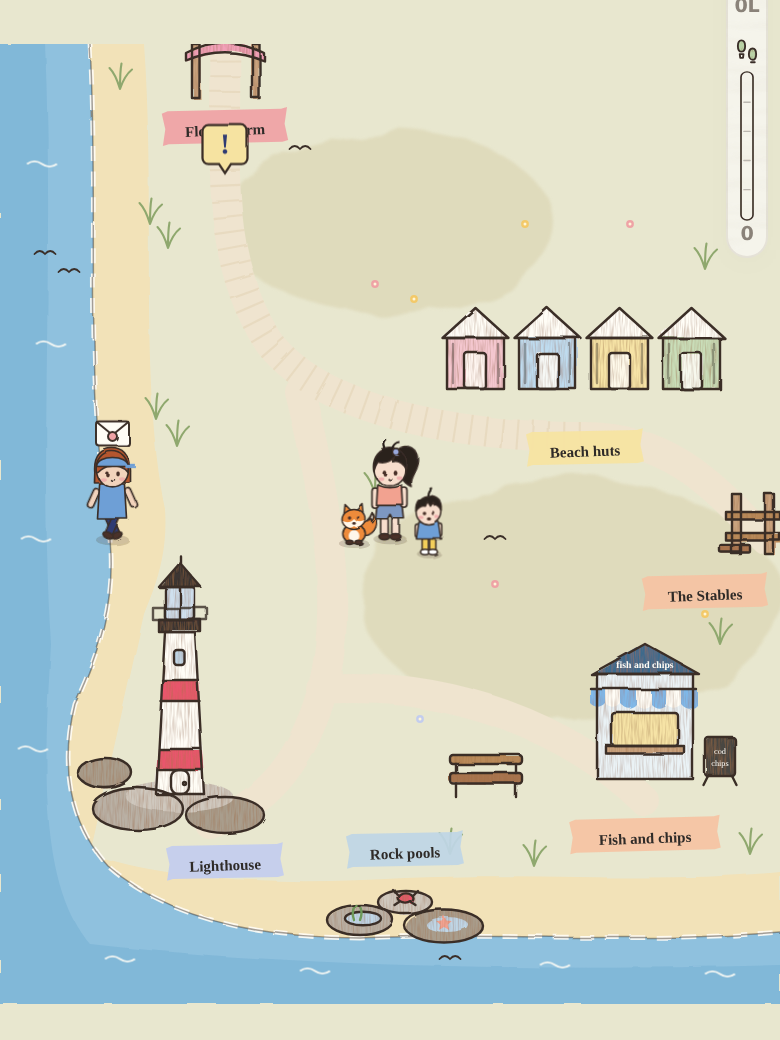
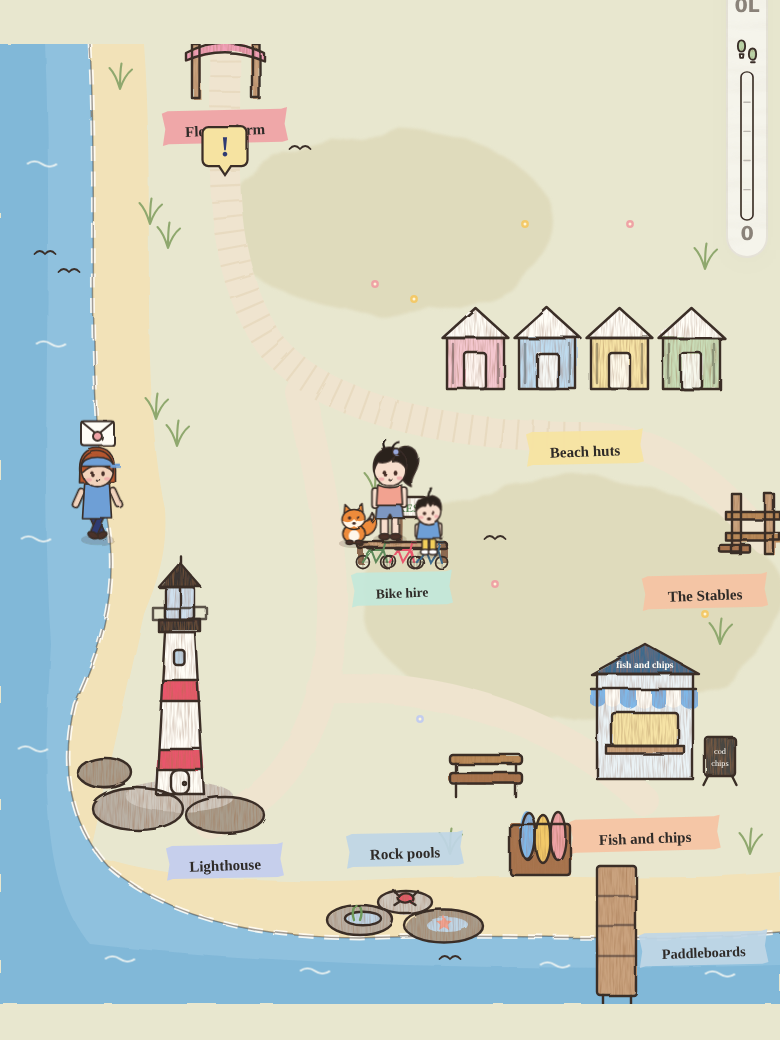
Bike hire on the green and at Lighthouse Point; a paddleboard jetty at the lighthouse
Claude-Session: https://claude.ai/code/session_017gYbhpw6TbdTF5ufLgYzyp

diff --git a/maple-village/src/game/core.js b/maple-village/src/game/core.js
@@ -3408,7 +3408,7 @@ function arriveVillageSpot(id){
   if (id === "timetable" && scene === "hlane") { railOpen = true; sfx("paper", true); render(); return; }
   if (SOUTH_SPOTS.includes(id)) { southSpot(id); return; }
   if (id === "ranger") { woodsView = "ranger"; sfx("paper", true); if (isHere("wren")) npcSay("wren", pick(["Morning! Mind the roots on the top trail.", "Kettle's on. Have you been to the lookout yet?", "The pool's full of trout this week."])); render(); return; }
-  if (id === "bikeswoods" || id === "bikesst" || id === "bikesvillage") { woodsView = "bike"; sfx("paper", true); render(); return; }
+  if (id === "bikeswoods" || id === "bikesst" || id === "bikesvillage" || id === "bikesgreen" || id === "bikeslight") { woodsView = "bike"; sfx("paper", true); render(); return; }
   if (TAXI_STOPS[id]) { woodsView = id; sfx("paper", true); render(); return; }
   if (id === "forage") { const r = forage(F, addInv); if (!r) { speak("You've foraged here today. Come back tomorrow: the woods need time to grow back.", 4000); render(); return; }
     sfx("chime"); gainXp(1); act("cheer"); speak(`${r.line} +${r.n} ${ITEMS[r.id].n.toLowerCase()} in your backpack.`, 5500); mprop("sparkle", mel.x, mel.y - 60, 1600); if (evanHere()) setTimeout(() => evanSays(pick(["I found one!", "In the basket!", "Can I eat it?"])), 1200); save(); render(); return; }
@@ -3444,7 +3444,7 @@ function arriveVillageSpot(id){
   if (id === "jazzhat") { tipBand(); return; }
   if (id === "xgrotto") { fieldView = "xgrotto"; sfx("paper", true); if (evanHere()) evanSays(pick(["Santa?!", "is he IN there?", "Mama, hold my hand"])); render(); return; }
   if (id === "xtree") { fieldView = "xtree"; sfx("paper", true); if (treeLit(dayKey(), sgHM(), F)) mprop("heart", mel.x, mel.y - 60, 1600); render(); return; }
-  if (id === "suprack" || id === "homejetty") { goalView = "jetty"; sfx("paper", true); render(); return; }
+  if (id === "suprack" || id === "homejetty" || id === "lsup") { goalView = "jetty"; sfx("paper", true); render(); return; }
   if (id === "ferry") { railOpen = "ferry"; tripPick = []; sfx("paper", true); render(); return; }   // round 127: the Jeju ferry's ticket board
   if (id === "wishtower") { const w = F.wish = F.wish || {n: 3}; if (w.day === dayKey()) { speak("You've added your stone today. The wish is in there now: it just needs time.", 4000); render(); return; }
     w.day = dayKey(); if (w.n < 9) w.n++; sfx("chime"); gainXp(1); speak(pick(["You find a flat black-ish pebble by the river, balance it on top, and make a wish. Don't tell anyone what it was.", "Clack. One more stone on the tower. A wish for today.", "Very carefully... there. The tower's a little taller, and so is the wish."]), 5000);
@@ -4051,19 +4051,19 @@ function familyPaddle(){
 }
 // Paddling between the home jetty and the foreshore: the river, the lake and the stream join them. Board on, a blink,
 // and Mel steps off by the other jetty (Evan and Maple too)
-const JETTY = {shore: [216, 500], base: [150, 134]};
+const JETTY = {shore: [216, 500], base: [150, 134], lighthouse: [400, 552]};
 function paddleTo(dest){
   if (paddling || sup) return;
   const m = sgHM(); if (m >= 22*60 || m < 6*60) { speak("Too dark to paddle the river now. Walk tonight, paddle in the morning.", 3500); render(); return; }
-  const kid = evanHere(), off = scene === "shore" ? [[104, 372], [132, 404]] : [[124, 84], [96, 88]]; paddling = true; route = []; atSpot = null; mel.path = []; mel.sitting = false;
+  const kid = evanHere(), off = scene === "shore" ? [[104, 372], [132, 404]] : scene === "lighthouse" ? [[412, 612], [380, 618]] : [[124, 84], [96, 88]]; paddling = true; route = []; atSpot = null; mel.path = []; mel.sitting = false;
   mel.x = mel.tx = off[0][0]; mel.y = mel.ty = off[0][1]; maple.x = maple.tx = off[0][0] + 6; maple.y = maple.ty = off[0][1] - 2; nodes.mel.classList.remove("sit"); nodes.mel.classList.add("sup");
   if (kid) { evan.x = evan.tx = off[1][0]; evan.y = evan.ty = off[1][1]; evan.rk = off[1].join(","); evan.path = [off[1]]; evan.run = false; evan.wait = 99; evan.target = null; nodes.evan.classList.add("sup"); }
-  sfx("paper", true); speak(dest === "shore" ? (kid ? "Boards on! Evan's kneeling on his, Maple's on yours. Off down the river." : "Board on, Maple on the front. Off down the river.") : (kid ? "Boards on! Up the stream, across the lake and home." : "Board on. Up the stream and home."), 2500);
+  sfx("paper", true); speak(dest === "lighthouse" ? (kid ? "Boards on! Evan kneels on his, Maple rides on yours. Down the coast, past the cliffs." : "Board on, Maple on the front. Down the coast, past the cliffs.") : dest === "shore" ? (kid ? "Boards on! Evan's kneeling on his, Maple's on yours. Off down the river." : "Board on, Maple on the front. Off down the river.") : (kid ? "Boards on! Up the stream, across the lake and home." : "Board on. Up the stream and home."), 2500);
   setTimeout(() => {
     nodes.mel.classList.remove("sup"); nodes.evan.classList.remove("sup"); paddling = false;
     setScene(dest, JETTY[dest]);
     setTimeout(() => { if (evanHere()) { evan.x = evan.tx = JETTY[dest][0] + 26; evan.y = evan.ty = JETTY[dest][1] + 10; evan.run = false; evan.wait = 3; }
-      speak(dest === "shore" ? "Out at the foreshore. Salty air, and the dolphins are about." : "Home! Boards back on the rack.", 3500); }, 450);
+      speak(dest === "shore" ? "Out at the foreshore. Salty air, and the dolphins are about." : dest === "lighthouse" ? "Round the headland to Lighthouse Point. Boards up on the rack by the jetty." : "Home! Boards back on the rack.", 3500); }, 450);
   }, 1300);
 }
 // The dolphin cruise (once the boat's bought): the boat sails up the coast and back with Mel, Evan and Maple aboard

diff --git a/maple-village/src/game/goals.js b/maple-village/src/game/goals.js
@@ -69,9 +69,11 @@ export function garagePanel(F){
 // paddle down the river and out to the foreshore (Evan and Maple come too)
 export function jettyPanel(where, evan){
   const fam = evan ? "Evan and Maple hop on with you." : "Maple hops on the front of your board.";
-  let h = `<span class="tape gingham" aria-hidden="true"></span><h2>${where === "shore" ? "The paddleboards" : "Your little jetty"}</h2>`;
+  let h = `<span class="tape gingham" aria-hidden="true"></span><h2>${where === "shore" || where === "lighthouse" ? "The paddleboards" : "Your little jetty"}</h2>`;
+  // round 267: Lighthouse Point's jetty, along the coast from the foreshore
+  if (where === "lighthouse") return h + `<p class="sub">Up the coast, past the cliffs at the bottom of the flower farm, to the foreshore? Or the long way home, up the stream and down the river. ${fam}</p><div class="actions"><button class="btn primary" data-sup="shore">Paddle to the foreshore</button><button class="btn alt" data-sup="base">Paddle home</button></div><div class="actions"><button class="btn alt small" data-close="1">Close</button></div>`;
   h += where === "shore"
-    ? `<p class="sub">A paddle about with the dolphins, or up the stream, across the lake and down the river home?</p><div class="actions"><button class="btn primary" data-sup="play">Paddle about</button><button class="btn alt" data-sup="base">Paddle home</button></div>`
+    ? `<p class="sub">A paddle about with the dolphins, or up the stream, across the lake and down the river home? Or down the coast to Lighthouse Point.</p><div class="actions"><button class="btn primary" data-sup="play">Paddle about</button><button class="btn alt" data-sup="base">Paddle home</button><button class="btn alt" data-sup="lighthouse">Paddle to Lighthouse Point</button></div>`
     : `<p class="sub">Down the river, across the lake and out along the stream to the sea. ${fam}</p><div class="actions"><button class="btn primary" data-sup="shore">Paddle to the foreshore</button></div>
       <p class="sub" style="margin-top:14px">The river taxi stops here too (7am to 9pm): up to the woods, Makers' Lane, the lake and the foreshore.</p><div class="actions"><button class="btn alt" data-taxiopen="taxihome">Take the river taxi</button></div>`;
   return h + `<div class="actions"><button class="btn alt small" data-close="1">Close</button></div>`;

diff --git a/maple-village/src/art/transport.js b/maple-village/src/art/transport.js
@@ -35,7 +35,16 @@ export const taxiBoat = `<svg viewBox="0 0 120 60" width="180" height="90" aria-
 export function transportArt(scene){
   return scene === "field" ? taxiStop("taxilake", 300, 348, scene)
     : scene === "shore" ? taxiStop("taxishore", 214, 142, scene) : scene === "lane" ? taxiStop("taxilane", 56, 212, scene)
-    : scene === "village" ? bikeRack("bikesvillage", 196, 566) : "";
+    : scene === "village" ? bikeRack("bikesvillage", 196, 566)
+    : scene === "green" ? bikeRack("bikesgreen", 146, 372) : scene === "lighthouse" ? bikeRack("bikeslight", 268, 346) + supJetty() : "";   // round 267
+}
+// round 267 (Mel): a little paddleboard jetty at Lighthouse Point, out into the sea along the bottom, with a board rack
+function supJetty(){
+  return `<g data-place="lsup" aria-label="Paddleboard jetty"><ellipse class="hov" cx="396" cy="560" rx="40" ry="10" style="fill:var(--butter)"/>
+    ${sk(`<rect x="398" y="548" width="26" height="86" rx="2" style="fill:#C9A27E"/><rect x="340" y="520" width="40" height="34" rx="2" style="fill:#A8754F"/>
+      <ellipse cx="352" cy="528" rx="5" ry="16" style="fill:#7FB8E8"/><ellipse cx="362" cy="530" rx="5" ry="16" style="fill:#F3C969"/><ellipse cx="372" cy="528" rx="5" ry="16" style="fill:#EFA3A6"/>`,
+      `<rect x="398" y="548" width="26" height="86" rx="2"/><path d="M398 568 h26 M398 588 h26 M398 608 h26" opacity=".5"/><path d="M402 634 v6 M420 634 v6"/><rect x="340" y="520" width="40" height="34" rx="2"/><ellipse cx="352" cy="528" rx="5" ry="16"/><ellipse cx="362" cy="530" rx="5" ry="16"/><ellipse cx="372" cy="528" rx="5" ry="16"/>`)}
+    ${tapeLabel(472, 604, "Paddleboards", "var(--sky)", 9.5)}</g>`;
 }
 // the riverbank going by during the ride: a row of trees and reeds (scrolls past, CSS .taxibank)
 export const taxiBank = `<svg class="taxibank" viewBox="0 0 600 90" preserveAspectRatio="none" aria-hidden="true"><g style="stroke:#3b3530" stroke-width="1.2">${[20, 90, 150, 230, 300, 360, 440, 510, 570].map((x, i) => i % 3 === 1

diff --git a/maple-village/src/data/world.js b/maple-village/src/data/world.js
@@ -73,6 +73,9 @@ export const VILLAGE = {
   llight:{scene:"lighthouse", name:"The lighthouse", door:[140,524], spot:true, mark:[120,300], line:"The lighthouse."},
   lpools:{scene:"lighthouse", name:"The rock pools", door:[270,556], spot:true, mark:[270,500], line:"The rock pools."},
   lhuts:{scene:"lighthouse", name:"The beach huts", door:[390,264], spot:true, mark:[390,140], line:"Four beach huts in a row, rose, sky, butter and sage. Their owners only come at weekends, and leave the doors propped open with a shell."},
+  bikesgreen:{scene:"green", name:"Bike hire", door:[146,376], spot:true, mark:[146,316], line:"Hire bikes, on the green."},
+  bikeslight:{scene:"lighthouse", name:"Bike hire", door:[268,350], spot:true, mark:[268,290], line:"Hire bikes, at Lighthouse Point."},
+  lsup:{scene:"lighthouse", name:"Paddleboard jetty", door:[396,558], spot:true, mark:[390,470], line:"The paddleboard jetty. Fancy a paddle?"},
   lchips:{scene:"lighthouse", name:"The fish and chip hatch", door:[430,508], spot:true, mark:[430,380], line:"Fish and chips."},
   toLowerV:{scene:"vineyard", name:"Path down to the lower vineyard", door:[496,614], spot:true, bridge:"lowervine", mark:[474,540], line:"Down the hill to the lower vineyard."},
   toVineD:{scene:"lowervine", name:"Path up to the vineyard", door:[496,30], spot:true, bridge:"vineyard", mark:[450,90], line:"Up the hill to the vineyard."},

diff --git a/maple-village/src/game/paths.js b/maple-village/src/game/paths.js
@@ -9,7 +9,7 @@ const OBST = {
   lowervine: [[64, 262, 156, 358], [0, 596, 520, 640]],   // round 261: the old press (the stream's crossed by the footbridge)
   green: [[0, 596, 520, 640], [58, 420, 242, 520], [322, 110, 438, 256], [40, 112, 166, 198], [174, 124, 244, 190]],   // pond, bandstand, allotments, shed
   stables: [[0, 596, 520, 640], [194, 116, 446, 232], [18, 128, 150, 230], [154, 192, 198, 224], [230, 354, 500, 574], [32, 452, 188, 548], [56, 386, 106, 416]],
-  lighthouse: [[0, 0, 62, 320], [0, 320, 75, 440], [0, 440, 55, 550], [0, 550, 110, 640], [110, 592, 520, 640], [52, 340, 176, 500], [295, 176, 483, 232], [394, 400, 466, 490]],
+  lighthouse: [[0, 0, 62, 320], [0, 320, 75, 440], [0, 440, 55, 550], [0, 550, 110, 640], [110, 592, 520, 640], [52, 340, 176, 500], [295, 176, 483, 232], [394, 400, 466, 490], [338, 516, 382, 554]],
   flowers: [[462, 454, 514, 494], [0, 262, 30, 640]],
   orchard: [[64, 96, 200, 222], [350, 156, 480, 236]],
   field: [[80, 220, 340, 340], [326, 290, 400, 430], [346, 430, 400, 640]],

diff --git a/maple-village/HANDOFF.md b/maple-village/HANDOFF.md
@@ -2756,3 +2756,7 @@ Mel: villagers' story chapters read as broken-up speech without context; thank-y
 - The lower vineyard's misty valley is now the sea; its stream runs across the sand into it; the "valley bench" is the "sea bench" (walking to "valley bench" still works).
 - The Stables' paddock sits 26 higher (door [214,394], obstacle [230,354,500,574]) so its fence stays on the sand; gate labels drawn after it. The green's bottom trees moved up off the beach.
 - The vineyard: the wide river from home shows at the top left (x 0 to 34, y 44 to 98), meeting the stream down its left edge.
+
+## Round 267: bike hire and a paddleboard jetty on the bottom row (Mel: "one or some of the new screens need the bike hire. And a paddleboard jetty too at the lighthouse screen")
+- transport.js `transportArt`: bike racks `bikesgreen` (green, by the pond path) and `bikeslight` (Lighthouse Point, mid-screen); same bike panel as the others.
+- `supJetty()` at Lighthouse Point (`lsup`): a jetty out into the bottom sea and a board rack. Its jetty panel (goals.js `jettyPanel("lighthouse")`) paddles to the foreshore or home; the foreshore's panel gains "Paddle to Lighthouse Point". `JETTY.lighthouse`, and `paddleTo` lines for the coast.
